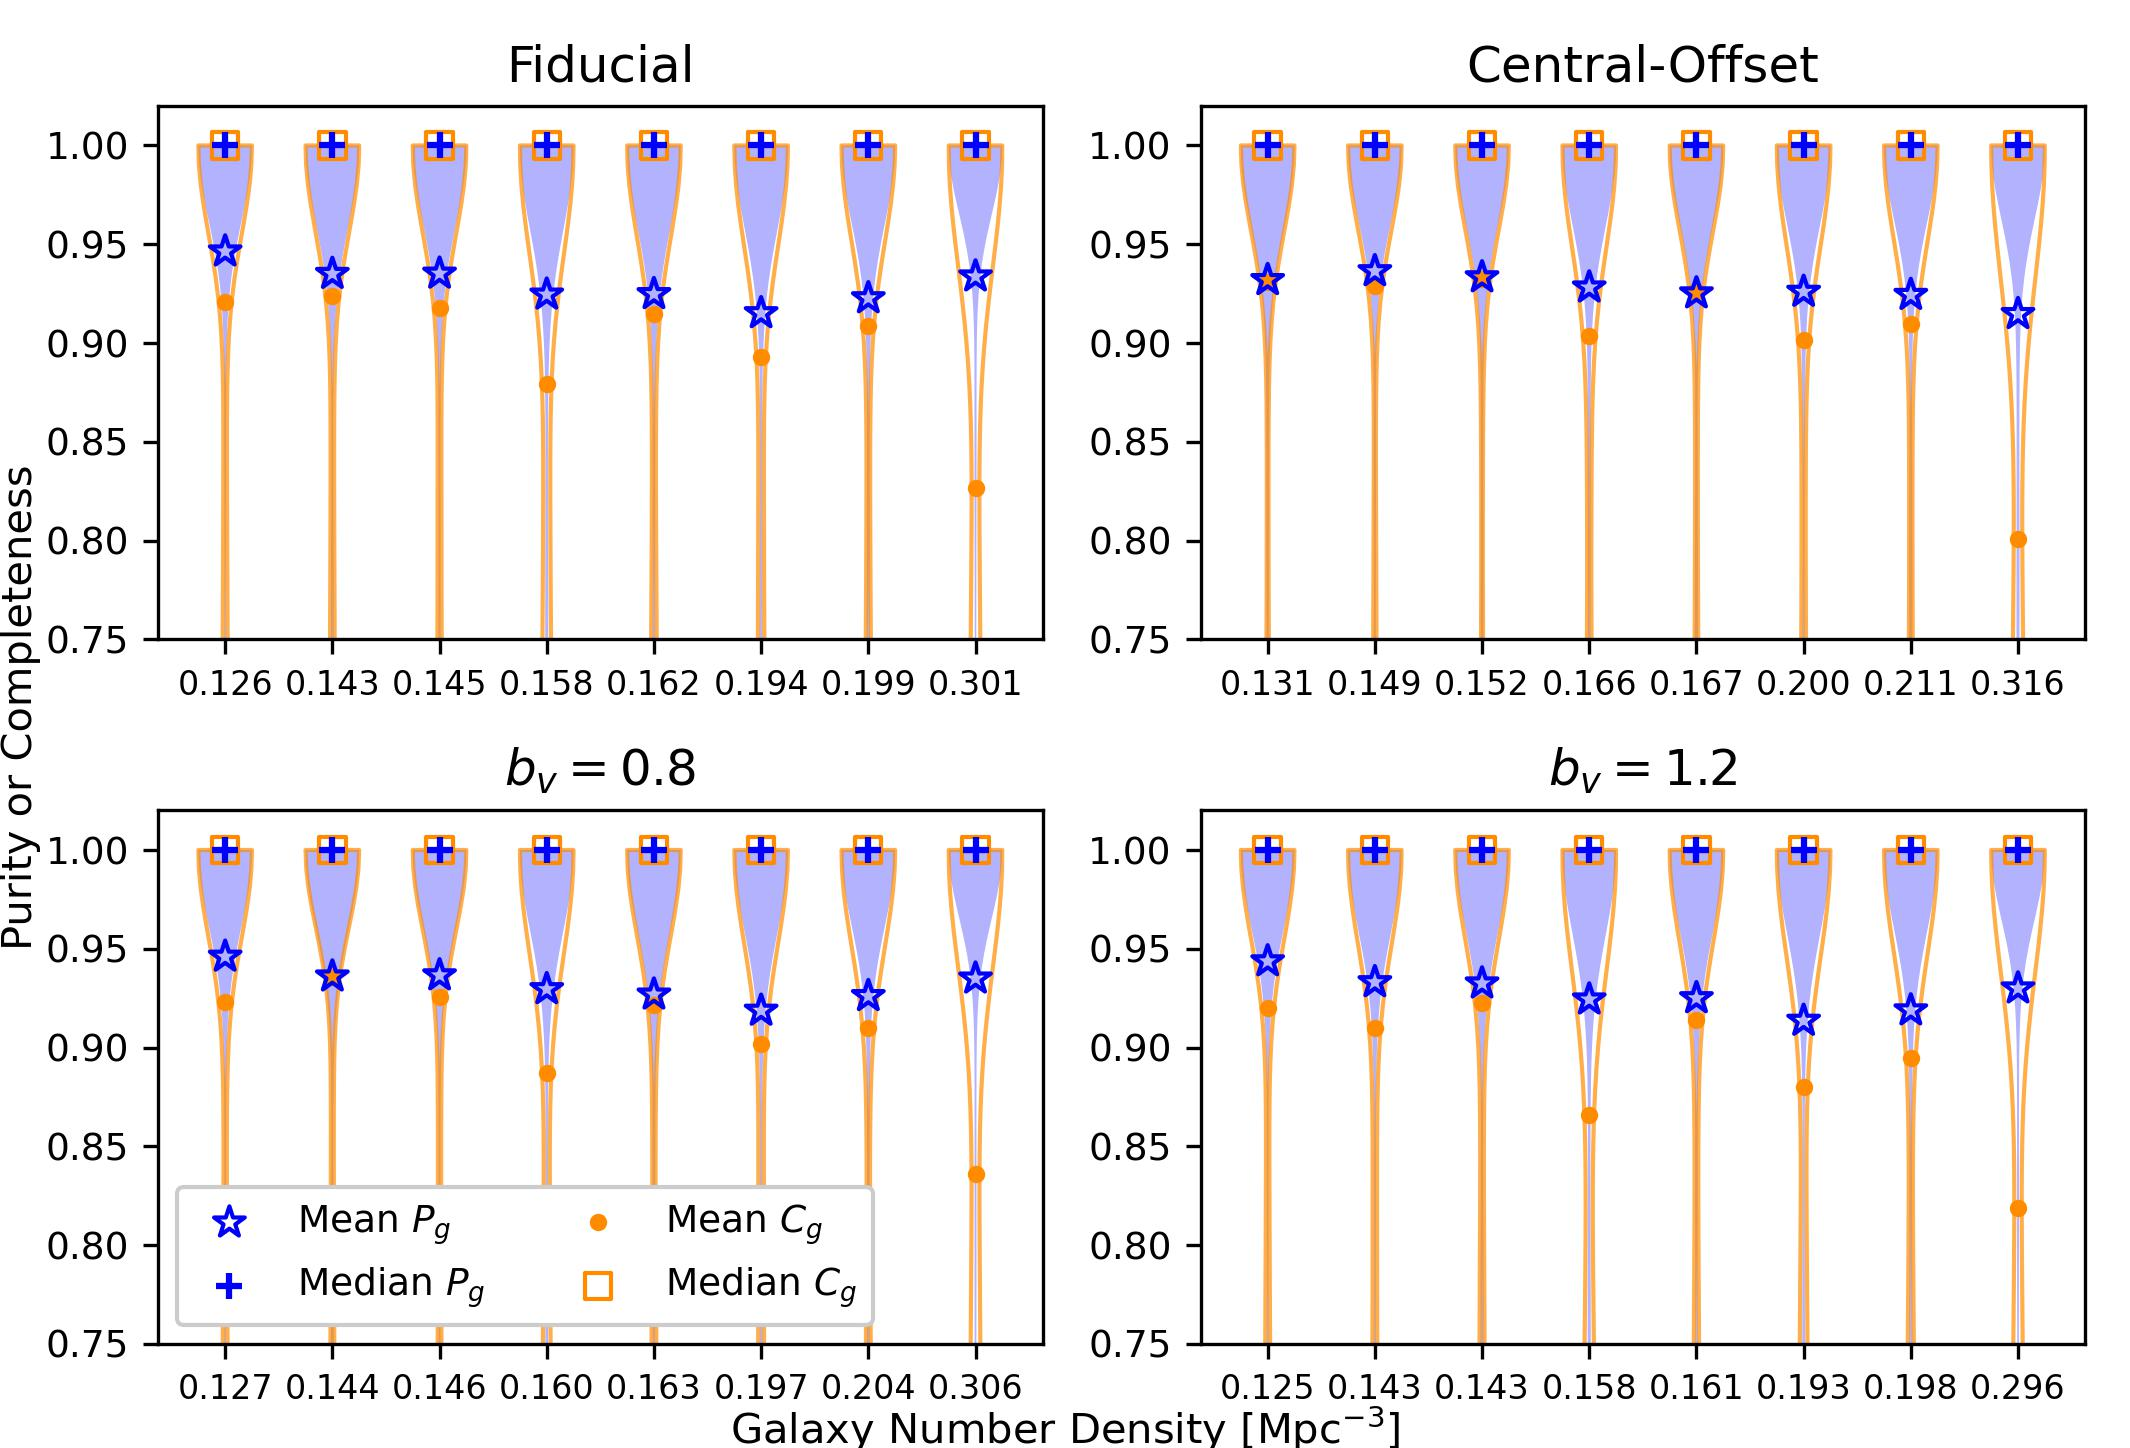
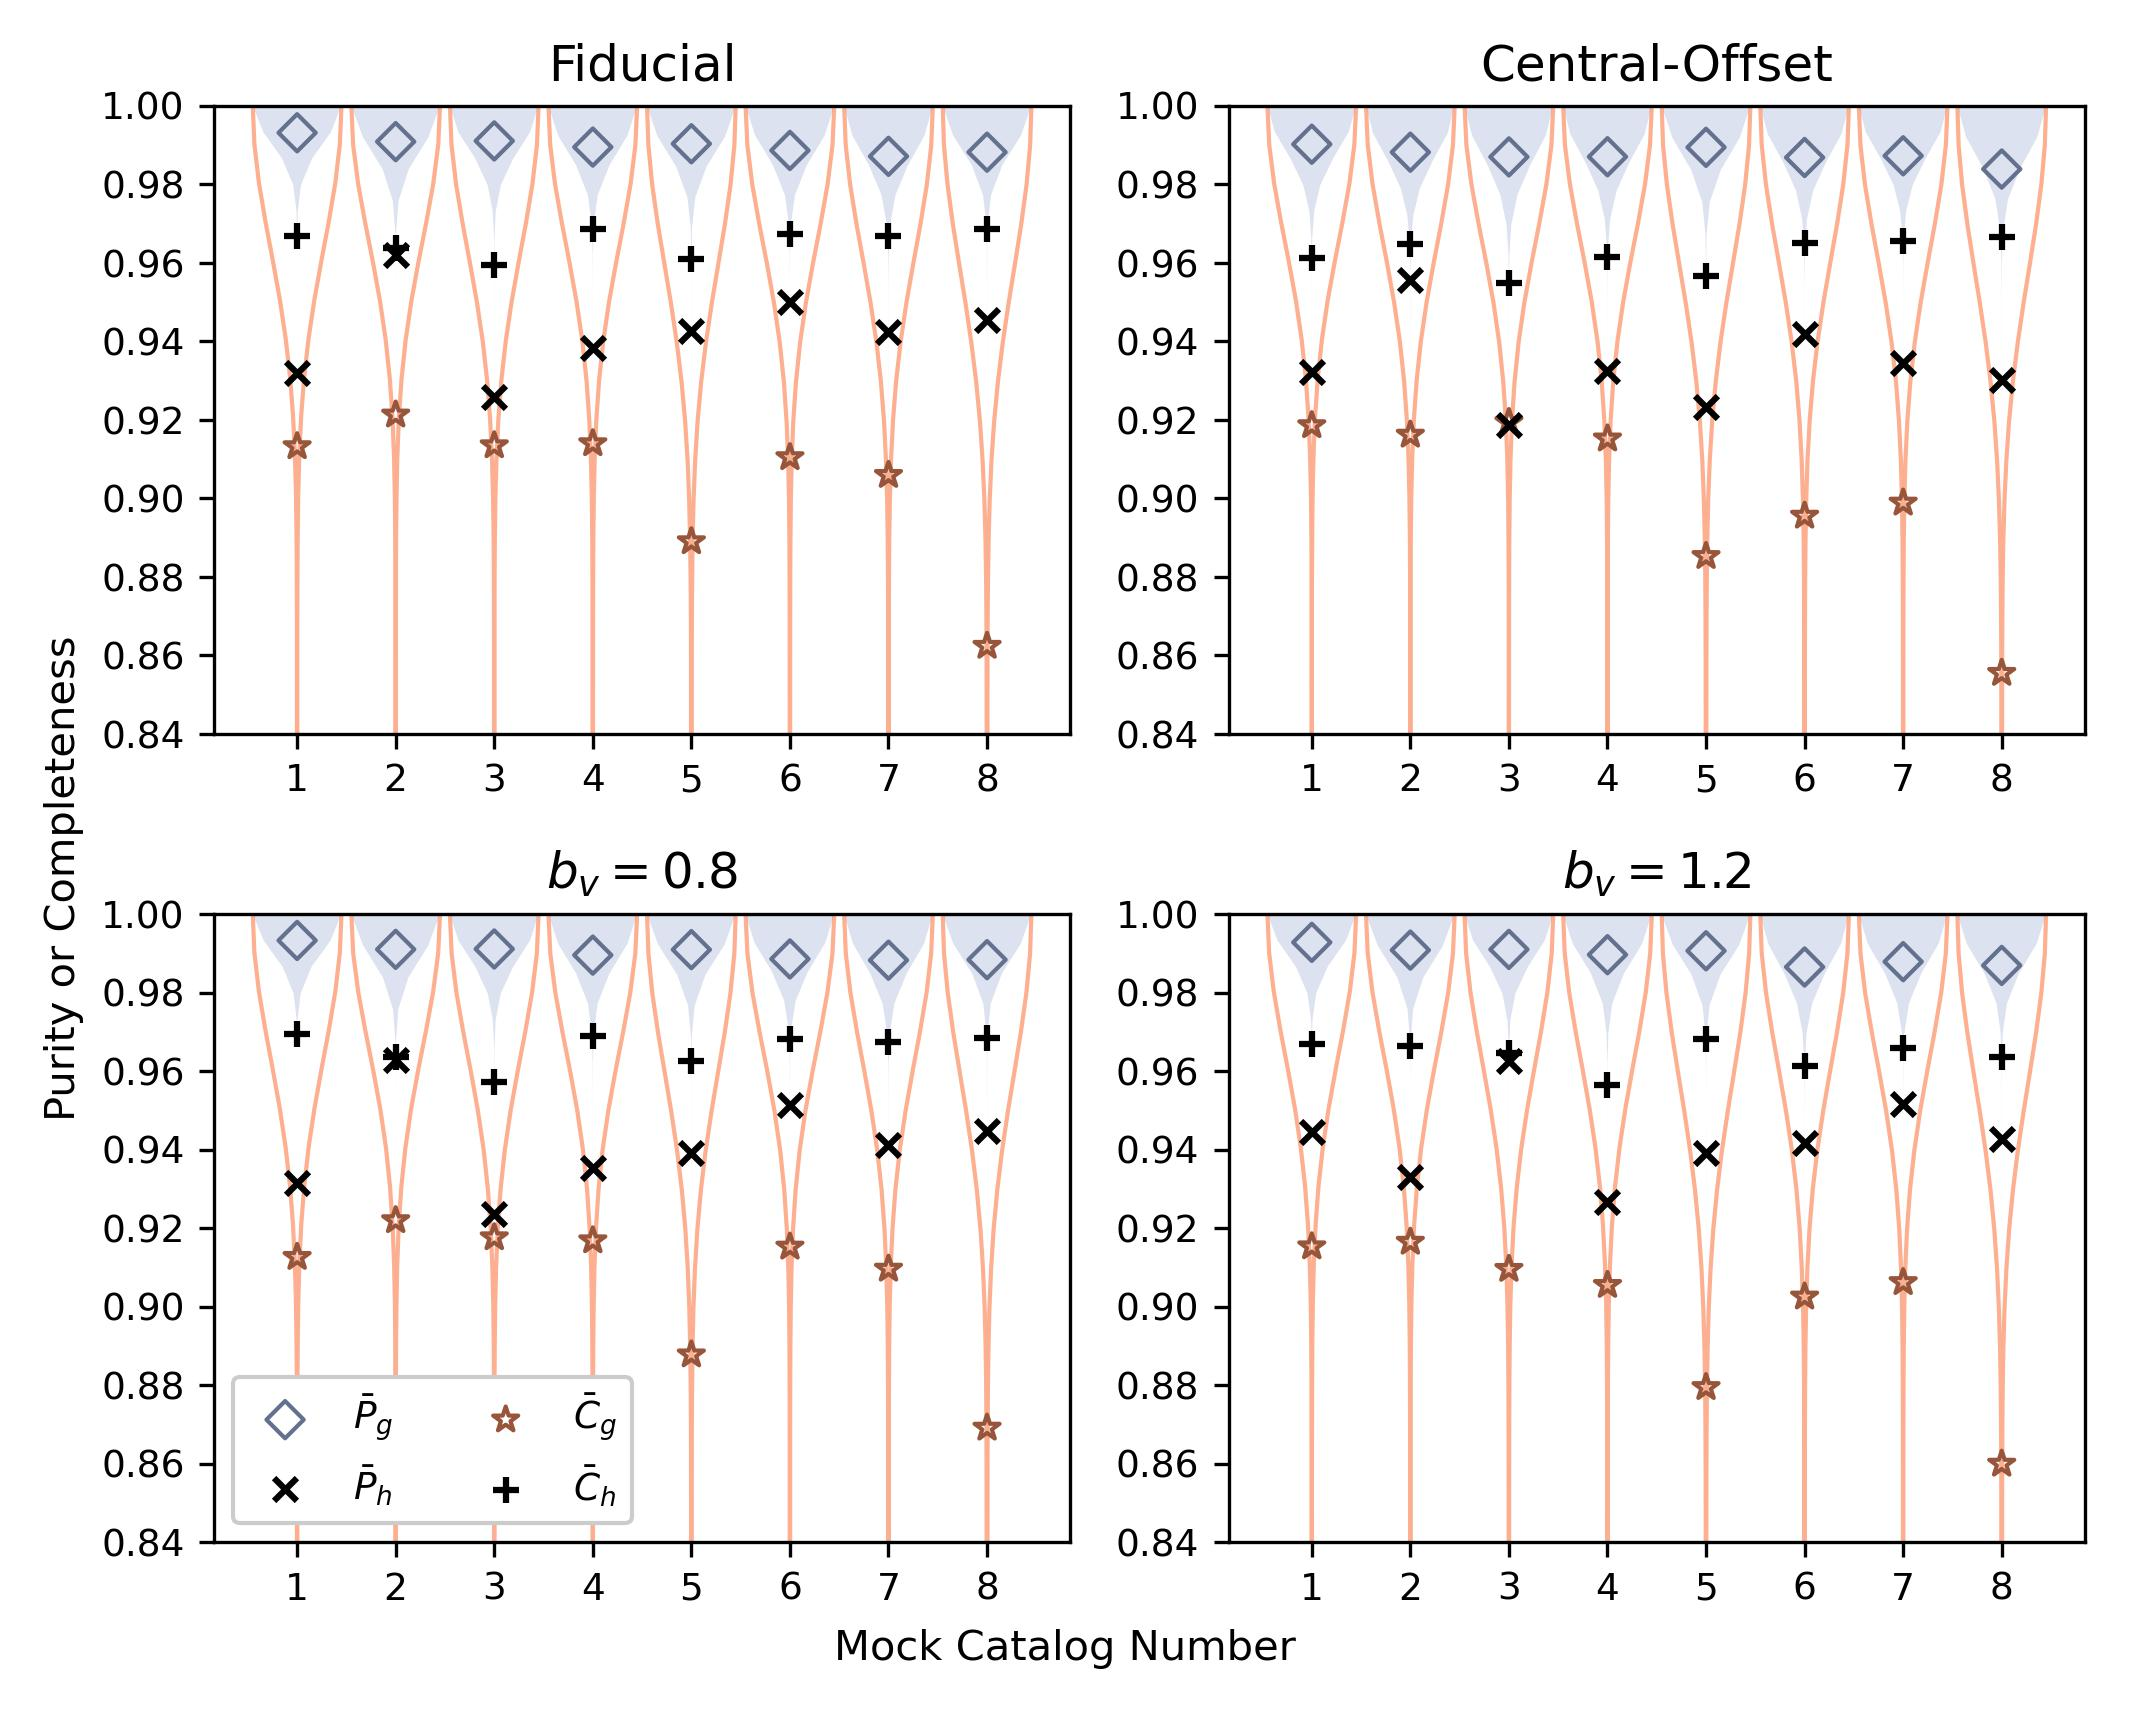
paper update Jan 18

Changed region(s): [[0.0, 0.0311, 0.9915, 1.0]]

diff --git a/g3algo/iterativecombination.py b/g3algo/iterativecombination.py
@@ -59,7 +59,6 @@ def iterative_combination(galaxyra, galaxydec, galaxycz, galaxymag, rprojboundar
     niter=0
     while (not converged):
         print("iteration {} in progress...".format(niter))
-        print(np.average(itassocid))
         # Compute based on updated ID number
         olditassocid = itassocid
         itassocid = nearest_neighbor_assign(galaxyra, galaxydec, galaxycz, galaxymag, olditassocid, rprojboundary, vprojboundary, centermethod, decisionmode, H0=H0)
@@ -289,8 +288,6 @@ def fit_in_group(galra, galdec, galcz, galgrpid, galmag, rprojboundary, vprojbou
         seed2lossep = np.abs(seed2grpcz[0]-allgrpcz[0])
         fitingroup1 = (seed1radialsep<rprojboundary(memberintmag)).all() and (seed1lossep<vprojboundary(memberintmag)).all()
         fitingroup2 = (seed2radialsep<rprojboundary(memberintmag)).all() and (seed2lossep<vprojboundary(memberintmag)).all()
-        print('v: ',vprojboundary(memberintmag))
-        print('r: ',rprojboundary(memberintmag))
         fitingroup = fitingroup1 and fitingroup2
     else:
         assert False, "Function argument `decisionmode` must be either `allgalaxies` or `centers`."

diff --git a/g3algo/altgroupcenter.py b/g3algo/altgroupcenter.py
@@ -3,7 +3,7 @@ import numpy as np
 import matplotlib
 matplotlib.use('TkAgg')
 import matplotlib.pyplot as plt
-from astropy.stats import biweight_location
+#from astropy.stats import biweight_location
 from scipy.stats import gaussian_kde
 from sklearn.neighbors import KernelDensity
 from scipy.stats import binned_statistic